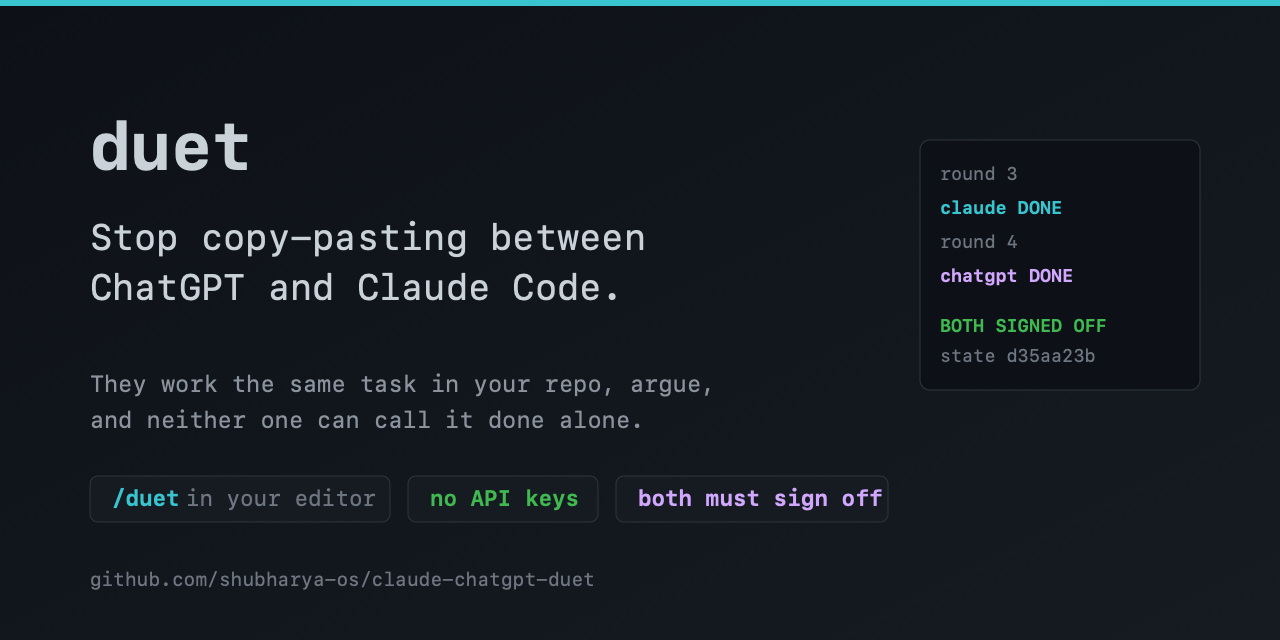
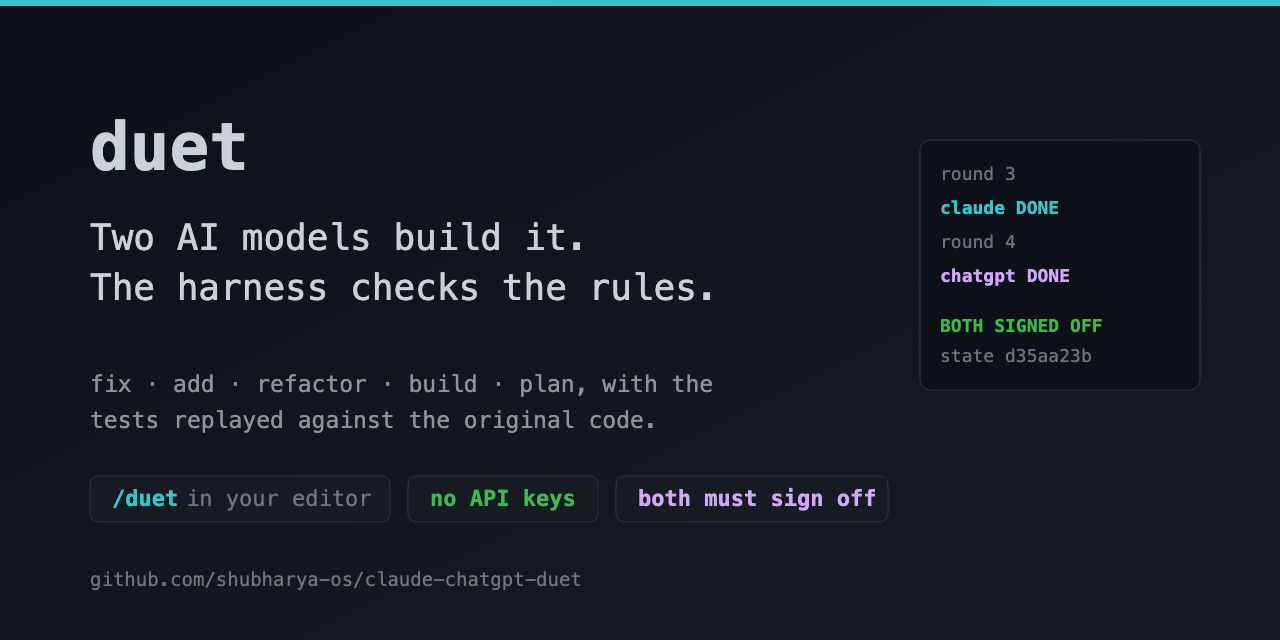
translations, a website badge, and one headline everywhere
ECC reaches thirteen language communities; duet reached one. Rather than
thirteen full READMEs that go stale within a day, five short quickstarts —
Simplified Chinese, Japanese, Korean, Spanish, Brazilian Portuguese — each
naming the English README as the reference. Every relative link in them was
checked to resolve.

The README headline, the repository description, the homepage, the
translations and the social preview now all say the same thing: two AI
models build it; the harness checks the rules. The preview was re-rendered
from its SVG source with headless Chrome at exactly 1280x640.

diff --git a/docs/i18n/ja.md b/docs/i18n/ja.md
@@ -1,0 +1,38 @@
+# duet — 2つの AI モデルが作り、ルールはハーネスが検証する
+
+> このページは英語 README から訳した短い入門です。**正式な内容は[英語の README](../../README.md)** です。すべての実行記録は [docs/QA.md](../QA.md) にあります。
+
+AI エージェントが1体だけだと、自分の宿題を自分で採点して「合格」と報告します。duet は**2つ目のモデル**を加え、**テストをハーネス自身が実行し**、各ワークフローにルールを課します。そのルールは、どちらかのモデルの自己申告ではなく、実際に起きたことに照らして検証されます。
+
+## インストール
+
+```bash
+curl -fsSL https://raw.githubusercontent.com/shubharya-os/claude-chatgpt-duet/main/install.sh | sh
+```
+
+手持ちの Claude と ChatGPT のサブスクリプションをそのまま使います — **API キーは不要**。サブスクリプションが1つでも動きます（例: `--pair claude:opus+claude:sonnet`）。
+
+## 6つのコマンド、6つのルール
+
+```bash
+duet build "家計簿の Web アプリ"         # ゼロから: 受け入れ基準 → テスト → コード
+duet fix "カンマを含む行がエクスポートで消える" # テストは元のコードで失敗し、修正後に通ること
+duet add "report に --json オプション"   # その機能がないと失敗するテストが必要
+duet refactor "parser.py を2つに分割"     # 既存のテストは1バイトも変えてはいけない
+duet plan "ストレージを Postgres に移行"  # 議論の末、変更してよいのは PLAN.md だけ
+duet review                               # 別のモデルが diff を読み取り専用でレビュー
+```
+
+`fix` は完成したテストを**元のコードのスナップショット上で再実行**します。バグのあるコードでもテストが通るなら、そのテストはバグを捉えていないので、両者の承認は取り消されます。
+
+## 実績
+
+一文と空のディレクトリだけから、duet は家計簿 Web アプリ（シングルページ UI、JSON API、SQLite、CSV 出力）を **35 分**で構築しました。その後、手作業で攻撃しました: SQL インジェクションはただの文字列として保存され、保存型 XSS は実際のブラウザでテキストとして表示され、CSV 数式インジェクションは無害化され、`0.1 + 0.2` の合計はちょうど `0.30` でした。
+
+## デフォルトにする
+
+```bash
+duet skill default    # 元に戻す: duet skill undefault
+```
+
+以後、Claude Code・Codex・Gemini CLI・Antigravity・OpenCode は、実際のコード変更（バグ修正・機能追加・リファクタリング）を duet に任せ、質問や1行の修正はそのまま直接行います。

diff --git a/docs/i18n/ko.md b/docs/i18n/ko.md
@@ -1,0 +1,38 @@
+# duet — 두 AI 모델이 만들고, 규칙은 하네스가 검사한다
+
+> 이 페이지는 영어 README에서 옮긴 짧은 입문서입니다. **기준은 [영어 README](../../README.md)** 이며, 모든 실행 기록은 [docs/QA.md](../QA.md)에 있습니다.
+
+AI 에이전트 하나는 자기 숙제를 스스로 채점하고 "통과"라고 보고합니다. duet는 **두 번째 모델**을 참여시키고, **테스트를 하네스가 직접 실행**하며, 각 워크플로에 규칙을 겁니다. 그 규칙은 어느 모델의 말이 아니라 실제로 일어난 일에 비추어 검사됩니다.
+
+## 설치
+
+```bash
+curl -fsSL https://raw.githubusercontent.com/shubharya-os/claude-chatgpt-duet/main/install.sh | sh
+```
+
+이미 가진 Claude와 ChatGPT 구독을 그대로 사용합니다 — **API 키가 필요 없습니다**. 구독이 하나뿐이어도 동작합니다 (예: `--pair claude:opus+claude:sonnet`).
+
+## 여섯 개의 명령, 여섯 개의 규칙
+
+```bash
+duet build "가계부 웹 앱"                  # 처음부터: 수용 기준 → 테스트 → 코드
+duet fix "쉼표가 들어간 행이 내보내기에서 빠짐" # 테스트는 원래 코드에서 실패하고 수정 후 통과해야 함
+duet add "report에 --json 옵션"            # 그 기능이 없으면 실패하는 테스트가 필요
+duet refactor "parser.py를 둘로 분리"       # 기존 테스트는 한 바이트도 바꿀 수 없음
+duet plan "저장소를 Postgres로 이전"        # 논의 끝에 PLAN.md만 바뀔 수 있음
+duet review                                # 다른 모델이 diff를 읽기 전용으로 리뷰
+```
+
+`fix`는 완성된 테스트를 **원래 코드의 스냅샷 위에서 다시 실행**합니다. 버그가 있는 코드에서도 테스트가 통과한다면 그 테스트는 버그를 잡지 못한 것이므로, 양쪽의 승인이 취소됩니다.
+
+## 결과
+
+문장 하나와 빈 디렉터리에서 시작해, duet는 가계부 웹 앱(싱글 페이지 UI, JSON API, SQLite, CSV 내보내기)을 **35분** 만에 만들었습니다. 그 뒤 직접 공격했습니다: SQL 인젝션은 평범한 텍스트로 저장되었고, 저장형 XSS는 실제 브라우저에서 텍스트로 표시되었으며, CSV 수식 인젝션은 무력화되었고, `0.1 + 0.2`의 합계는 정확히 `0.30`이었습니다.
+
+## 기본값으로 만들기
+
+```bash
+duet skill default    # 되돌리기: duet skill undefault
+```
+
+이후 Claude Code, Codex, Gemini CLI, Antigravity, OpenCode는 실제 코드 변경(버그 수정, 기능 추가, 리팩터링)을 duet에 맡기고, 질문이나 한 줄 수정은 그대로 직접 처리합니다.

diff --git a/docs/i18n/pt-BR.md b/docs/i18n/pt-BR.md
@@ -1,0 +1,38 @@
+# duet — dois modelos de IA constroem; o harness verifica as regras
+
+> Esta página é uma introdução curta traduzida do README em inglês. **A referência é o [README em inglês](../../README.md)**; o registro completo de cada execução está em [docs/QA.md](../QA.md).
+
+Um único agente de IA corrige a própria lição de casa e diz que passou. O duet coloca um **segundo modelo** no processo, **roda os seus testes por conta própria** e prende cada fluxo de trabalho a uma regra que ele verifica contra o que realmente aconteceu — não contra o que qualquer um dos modelos diz.
+
+## Instalação
+
+```bash
+curl -fsSL https://raw.githubusercontent.com/shubharya-os/claude-chatgpt-duet/main/install.sh | sh
+```
+
+Usa as assinaturas do Claude e do ChatGPT que você já tem — **sem chaves de API**. Com uma só assinatura também funciona (por exemplo `--pair claude:opus+claude:sonnet`).
+
+## Seis comandos, seis regras
+
+```bash
+duet build "um app web de despesas"        # do zero: critérios, depois testes, depois código
+duet fix "a exportação perde linhas com vírgula" # os testes devem falhar no código original e passar agora
+duet add "uma opção --json no report"      # um teste deve falhar sem a funcionalidade
+duet refactor "dividir parser.py em dois"  # os testes existentes não podem mudar nem um byte
+duet plan "migrar o armazenamento para Postgres" # discutem e só o PLAN.md pode mudar
+duet review                                # outro modelo revisa o seu diff, somente leitura
+```
+
+O `fix` **executa de novo os testes finais sobre uma cópia do código original**. Se eles também passam no código com o bug, não detectam o bug, e as duas aprovações são anuladas.
+
+## Resultados
+
+A partir de uma frase e de um diretório vazio, o duet construiu um app web de despesas (interface de página única, API JSON, SQLite, exportação CSV) em **35 minutos**. Depois nós o atacamos à mão: a injeção de SQL foi guardada como texto, o XSS armazenado apareceu como texto num navegador de verdade, a injeção de fórmulas em CSV foi neutralizada e `0.1 + 0.2` somou exatamente `0.30`.
+
+## Tornar o padrão
+
+```bash
+duet skill default    # desfazer: duet skill undefault
+```
+
+A partir daí, Claude Code, Codex, Gemini CLI, Antigravity e OpenCode passam ao duet as mudanças reais de código (corrigir bugs, adicionar funcionalidades, refatorar), e continuam tratando diretamente as perguntas e as mudanças de uma linha.

diff --git a/docs/i18n/es.md b/docs/i18n/es.md
@@ -1,0 +1,38 @@
+# duet — dos modelos de IA lo construyen; el arnés comprueba las reglas
+
+> Esta página es una introducción breve traducida del README en inglés. **La referencia es el [README en inglés](../../README.md)**; el registro completo de cada ejecución está en [docs/QA.md](../QA.md).
+
+Un solo agente de IA corrige sus propios deberes y dice que aprobó. duet añade un **segundo modelo**, **ejecuta tus tests por sí mismo** y somete cada flujo de trabajo a una regla que comprueba contra lo que realmente ocurrió, no contra lo que dice cualquiera de los dos modelos.
+
+## Instalación
+
+```bash
+curl -fsSL https://raw.githubusercontent.com/shubharya-os/claude-chatgpt-duet/main/install.sh | sh
+```
+
+Usa las suscripciones de Claude y ChatGPT que ya tienes — **sin claves de API**. Con una sola suscripción también funciona (por ejemplo `--pair claude:opus+claude:sonnet`).
+
+## Seis comandos, seis reglas
+
+```bash
+duet build "una app web de gastos"        # desde cero: criterios, luego tests, luego código
+duet fix "la exportación pierde filas con comas" # los tests deben fallar en el código original y pasar ahora
+duet add "una opción --json en report"    # un test debe fallar sin la funcionalidad
+duet refactor "dividir parser.py en dos"  # los tests existentes no pueden cambiar ni un byte
+duet plan "migrar el almacenamiento a Postgres" # se discute y solo puede cambiar PLAN.md
+duet review                               # otro modelo revisa tu diff en modo solo lectura
+```
+
+`fix` **vuelve a ejecutar los tests finales sobre una copia del código original**. Si también pasan con el código con el bug, no detectan el bug, y se anulan las dos aprobaciones.
+
+## Resultados
+
+Con una sola frase y un directorio vacío, duet construyó una app web de gastos (interfaz de una página, API JSON, SQLite, exportación CSV) en **35 minutos**. Después la atacamos a mano: la inyección SQL se guardó como texto, el XSS almacenado se mostró como texto en un navegador real, la inyección de fórmulas CSV quedó neutralizada y `0.1 + 0.2` sumó exactamente `0.30`.
+
+## Hacerlo el predeterminado
+
+```bash
+duet skill default    # deshacer: duet skill undefault
+```
+
+A partir de ahí, Claude Code, Codex, Gemini CLI, Antigravity y OpenCode pasan a duet los cambios de código reales (corregir bugs, añadir funcionalidades, refactorizar), y siguen respondiendo directamente las preguntas y los cambios de una línea.

diff --git a/docs/i18n/zh-CN.md b/docs/i18n/zh-CN.md
@@ -1,0 +1,38 @@
+# duet — 两个 AI 模型协作构建，规则由程序检查
+
+> 本页是简短的中文入门，译自英文 README。**以[英文 README](../../README.md) 为准**；每一次运行的完整记录见 [docs/QA.md](../QA.md)。
+
+单个 AI 代理给自己的作业打分，总会说"通过了"。duet 让**第二个模型**参与进来，由程序**亲自运行你的测试**，并把每个工作流绑定到一条规则上——规则是对照实际发生的事情检查的，而不是听任何一个模型怎么说。
+
+## 安装
+
+```bash
+curl -fsSL https://raw.githubusercontent.com/shubharya-os/claude-chatgpt-duet/main/install.sh | sh
+```
+
+使用你已有的 Claude 和 ChatGPT 订阅——**不需要 API key**。只有一个订阅也能用（例如 `--pair claude:opus+claude:sonnet`）。
+
+## 六个命令，六条规则
+
+```bash
+duet build "一个记账网页应用"     # 从零开始：先定验收标准，再写测试，最后写代码
+duet fix "导出时丢失含逗号的行"    # 测试必须在原始代码上失败，在修复后通过
+duet add "报告加一个 --json 选项"  # 必须有一个测试在没有该功能时失败
+duet refactor "把 parser.py 拆成两个" # 已有测试一个字节都不能改
+duet plan "把存储迁移到 Postgres"  # 双方讨论后只允许修改 PLAN.md
+duet review                        # 另一个模型只读地审查你的 diff
+```
+
+`fix` 会把最终的测试**重放到原始代码的快照上**：如果这些测试在有 bug 的代码上也能通过，它们就没有抓住这个 bug，双方的签字会被撤销。
+
+## 效果
+
+仅凭一句话、从空目录开始，duet 在 **35 分钟**内构建了一个记账网页应用（单页 UI、JSON API、SQLite、CSV 导出）。之后我们亲手攻击它：SQL 注入被当作普通文本存储，存储型 XSS 在真实浏览器中被渲染为文本，CSV 公式注入被化解，`0.1 + 0.2` 的合计恰好是 `0.30`。
+
+## 让它成为默认
+
+```bash
+duet skill default    # 撤销：duet skill undefault
+```
+
+之后 Claude Code、Codex、Gemini CLI、Antigravity、OpenCode 会把真正的代码修改（修 bug、加功能、重构）交给 duet，而提问和一行小改动仍然直接处理。

diff --git a/README.md b/README.md
@@ -3,8 +3,11 @@
 [![ci](https://github.com/shubharya-os/claude-chatgpt-duet/actions/workflows/ci.yml/badge.svg)](https://github.com/shubharya-os/claude-chatgpt-duet/actions/workflows/ci.yml)
 [![python](https://img.shields.io/badge/python-3.9%2B-blue)](https://www.python.org/)
 [![license](https://img.shields.io/badge/license-MIT-green)](LICENSE)
+[![website](https://img.shields.io/badge/website-duet-1f7a6d)](https://shubharya-os.github.io/claude-chatgpt-duet/)
 
-**Stop copy-pasting between ChatGPT and Claude Code.**
+**Read in:** English · [简体中文](docs/i18n/zh-CN.md) · [日本語](docs/i18n/ja.md) · [한국어](docs/i18n/ko.md) · [Español](docs/i18n/es.md) · [Português (BR)](docs/i18n/pt-BR.md)
+
+**Two AI models build it. The harness checks the rules.**
 
 <img src="docs/session.svg" alt="A duet session: Claude Code and ChatGPT taking turns until both sign off" width="760">
 
